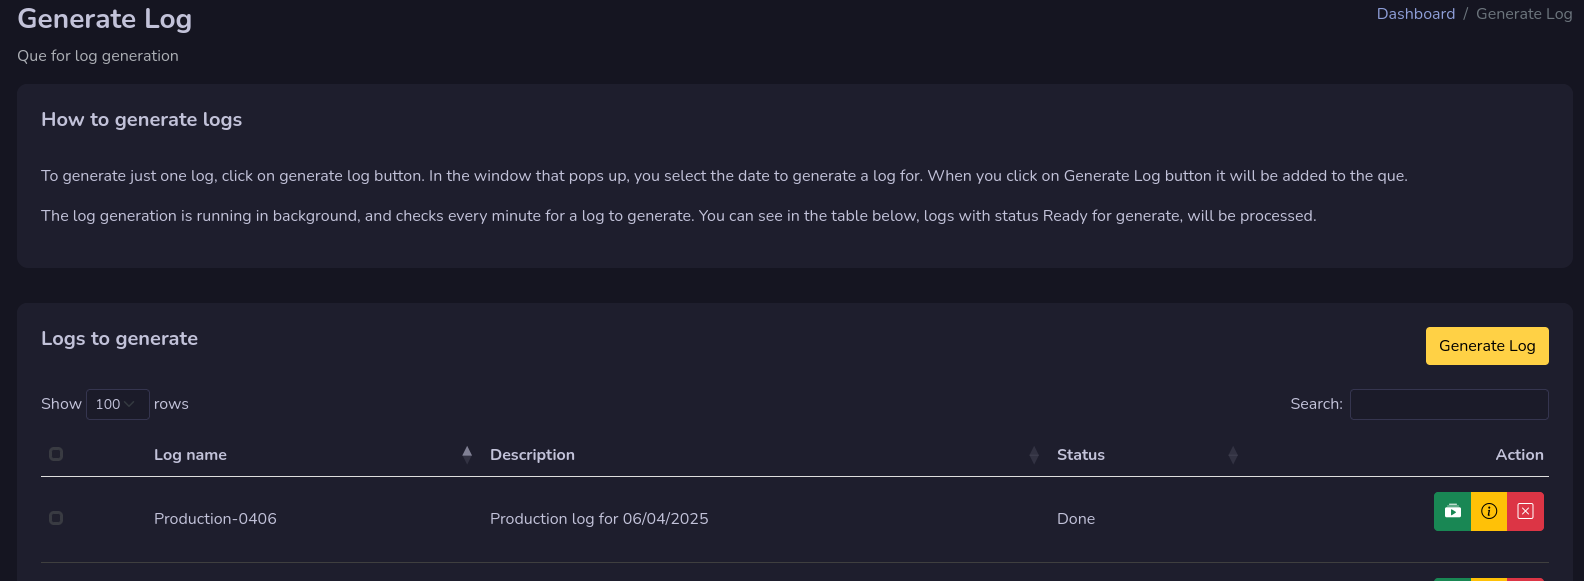
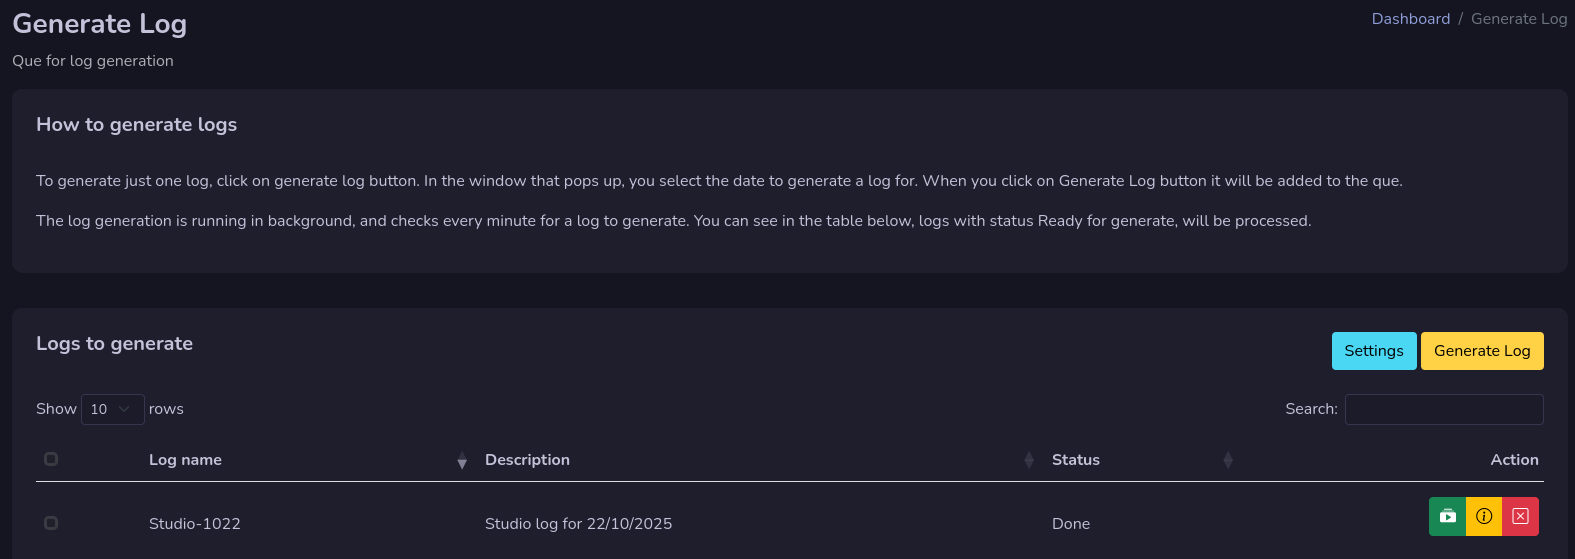
Add documentation about automatic log generation.

diff --git a/docs/loggen.md b/docs/loggen.md
@@ -54,6 +54,24 @@ Press the generate log button to open the window where you select log service an
 
 If a log exist, it will warn you about it. And if you agree, it will remove the old log when the new one is generated.
 
+## Automatic Log Generator
+![Screenshot](img/loggensettings.png)
+There are an automatic log generator, that can generate your logs for you. It will work in the background, and generate the logs.
+Press the Settings button to open up the settings window.
+
+Here you can enable automatic generator. You can generate up to 7 days. Just enter how many days you will generate.
+
+Under services select the services you would like to generate logs for.
+
+It will start to generate two days before. And all information are stored on the server, and not in Rivendell Radio Automation.
+
+!!! Info
+
+    **If your last log will run on 2025-10-20, the log generator will generate new logs on 2025-10-19.**
+    
+    **Before you enable make shure you have logs generated in the past.**
+
+
 ## Logs List
 The log list holds all logs that going to be generated or has been generated.
 
